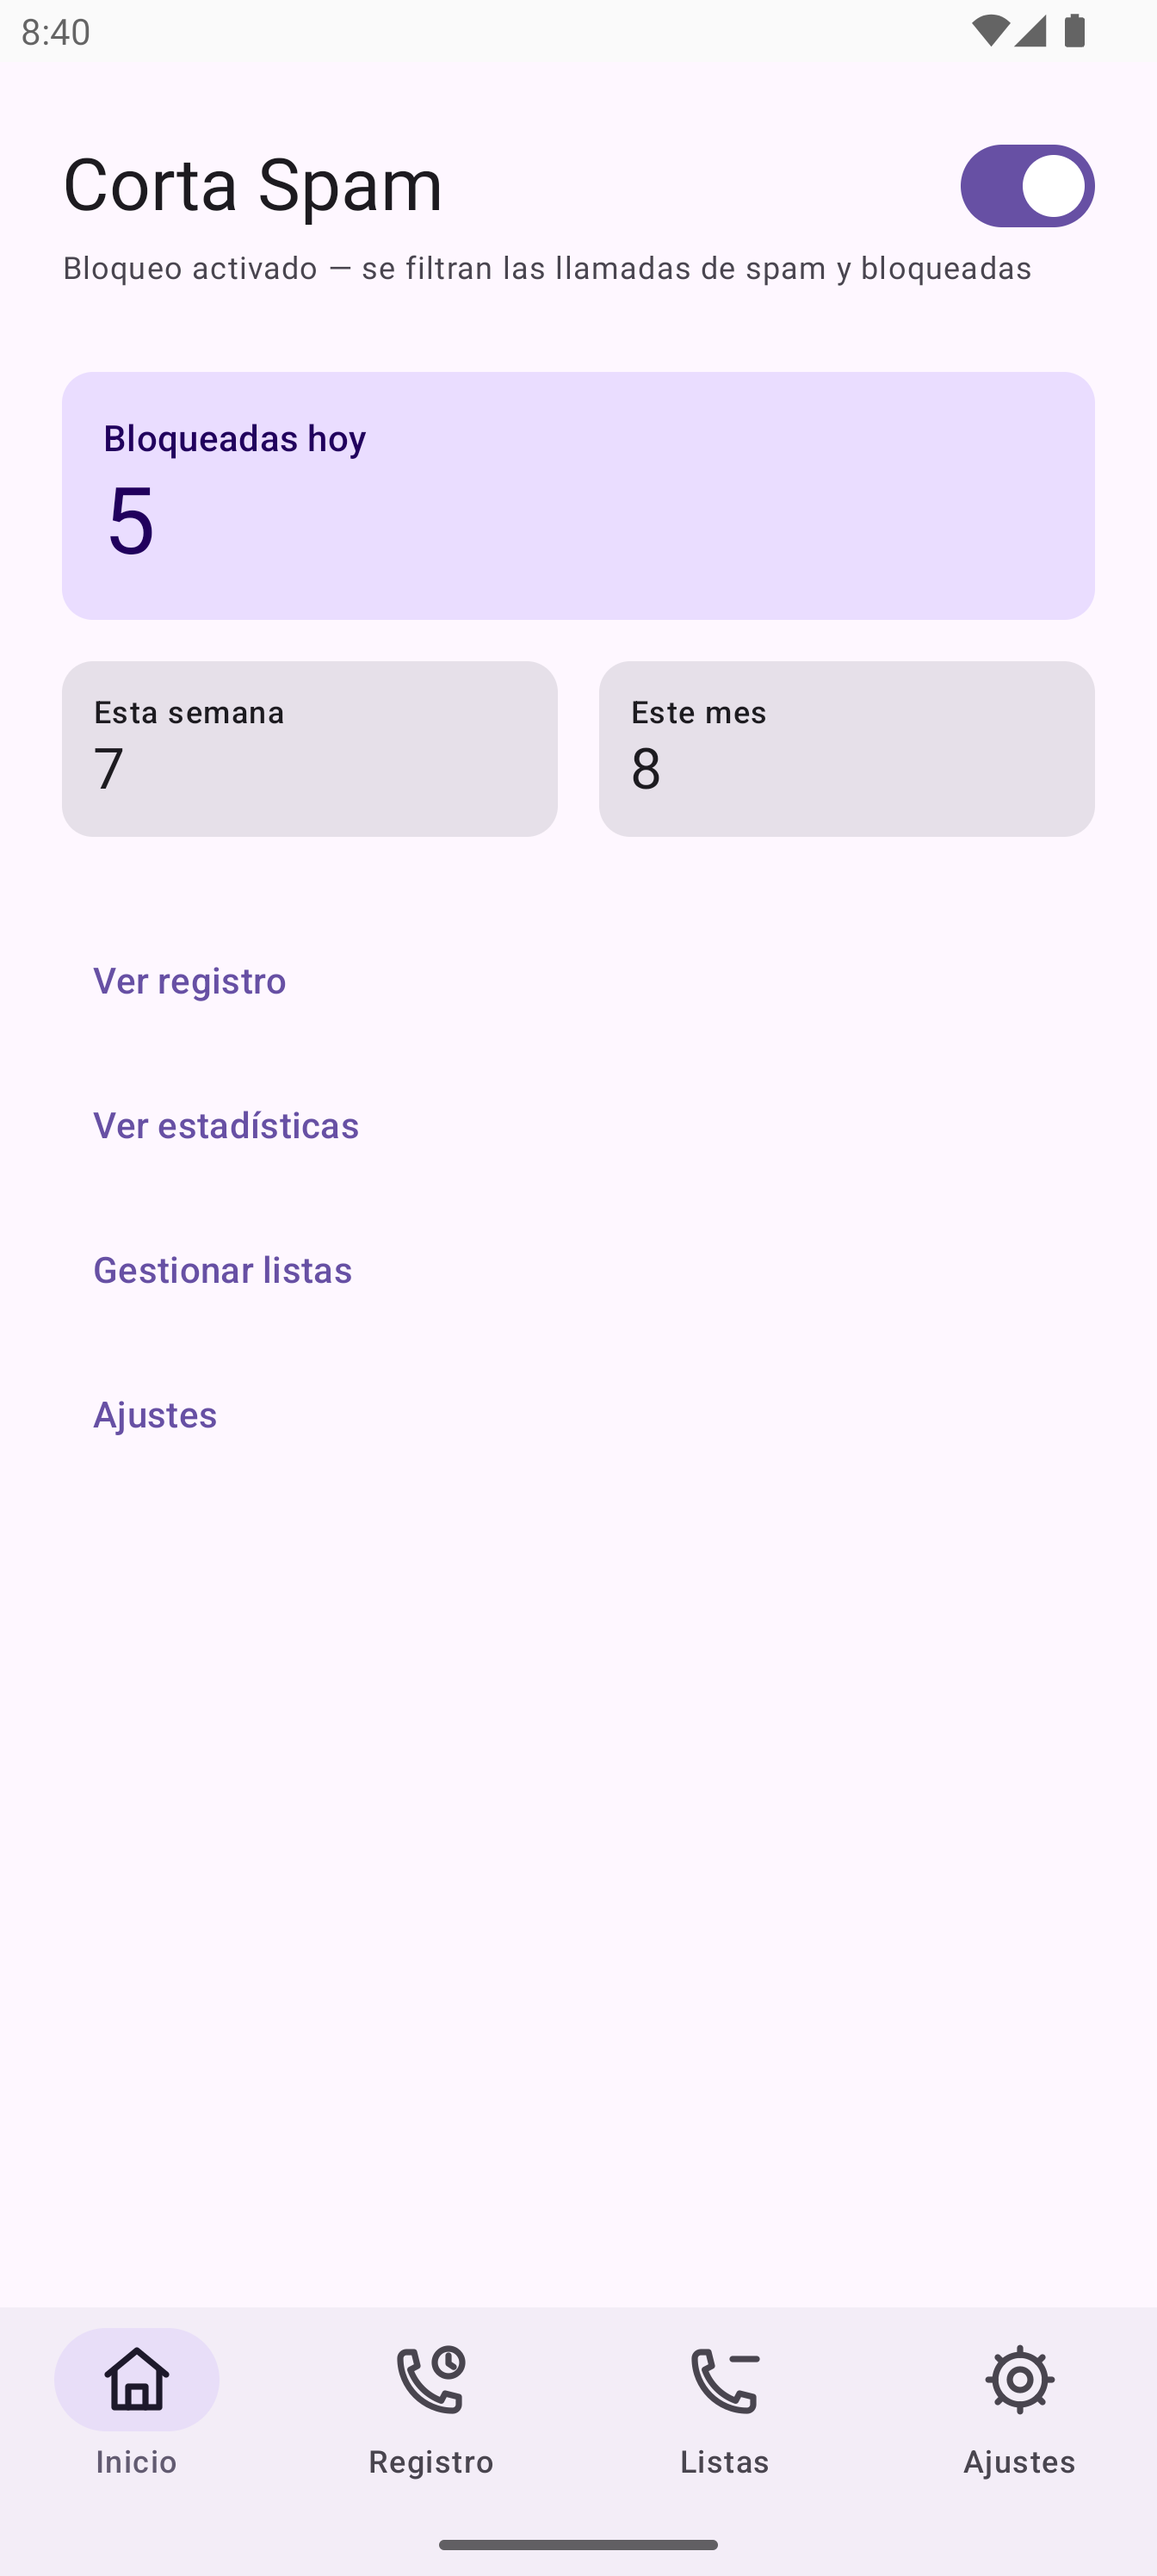
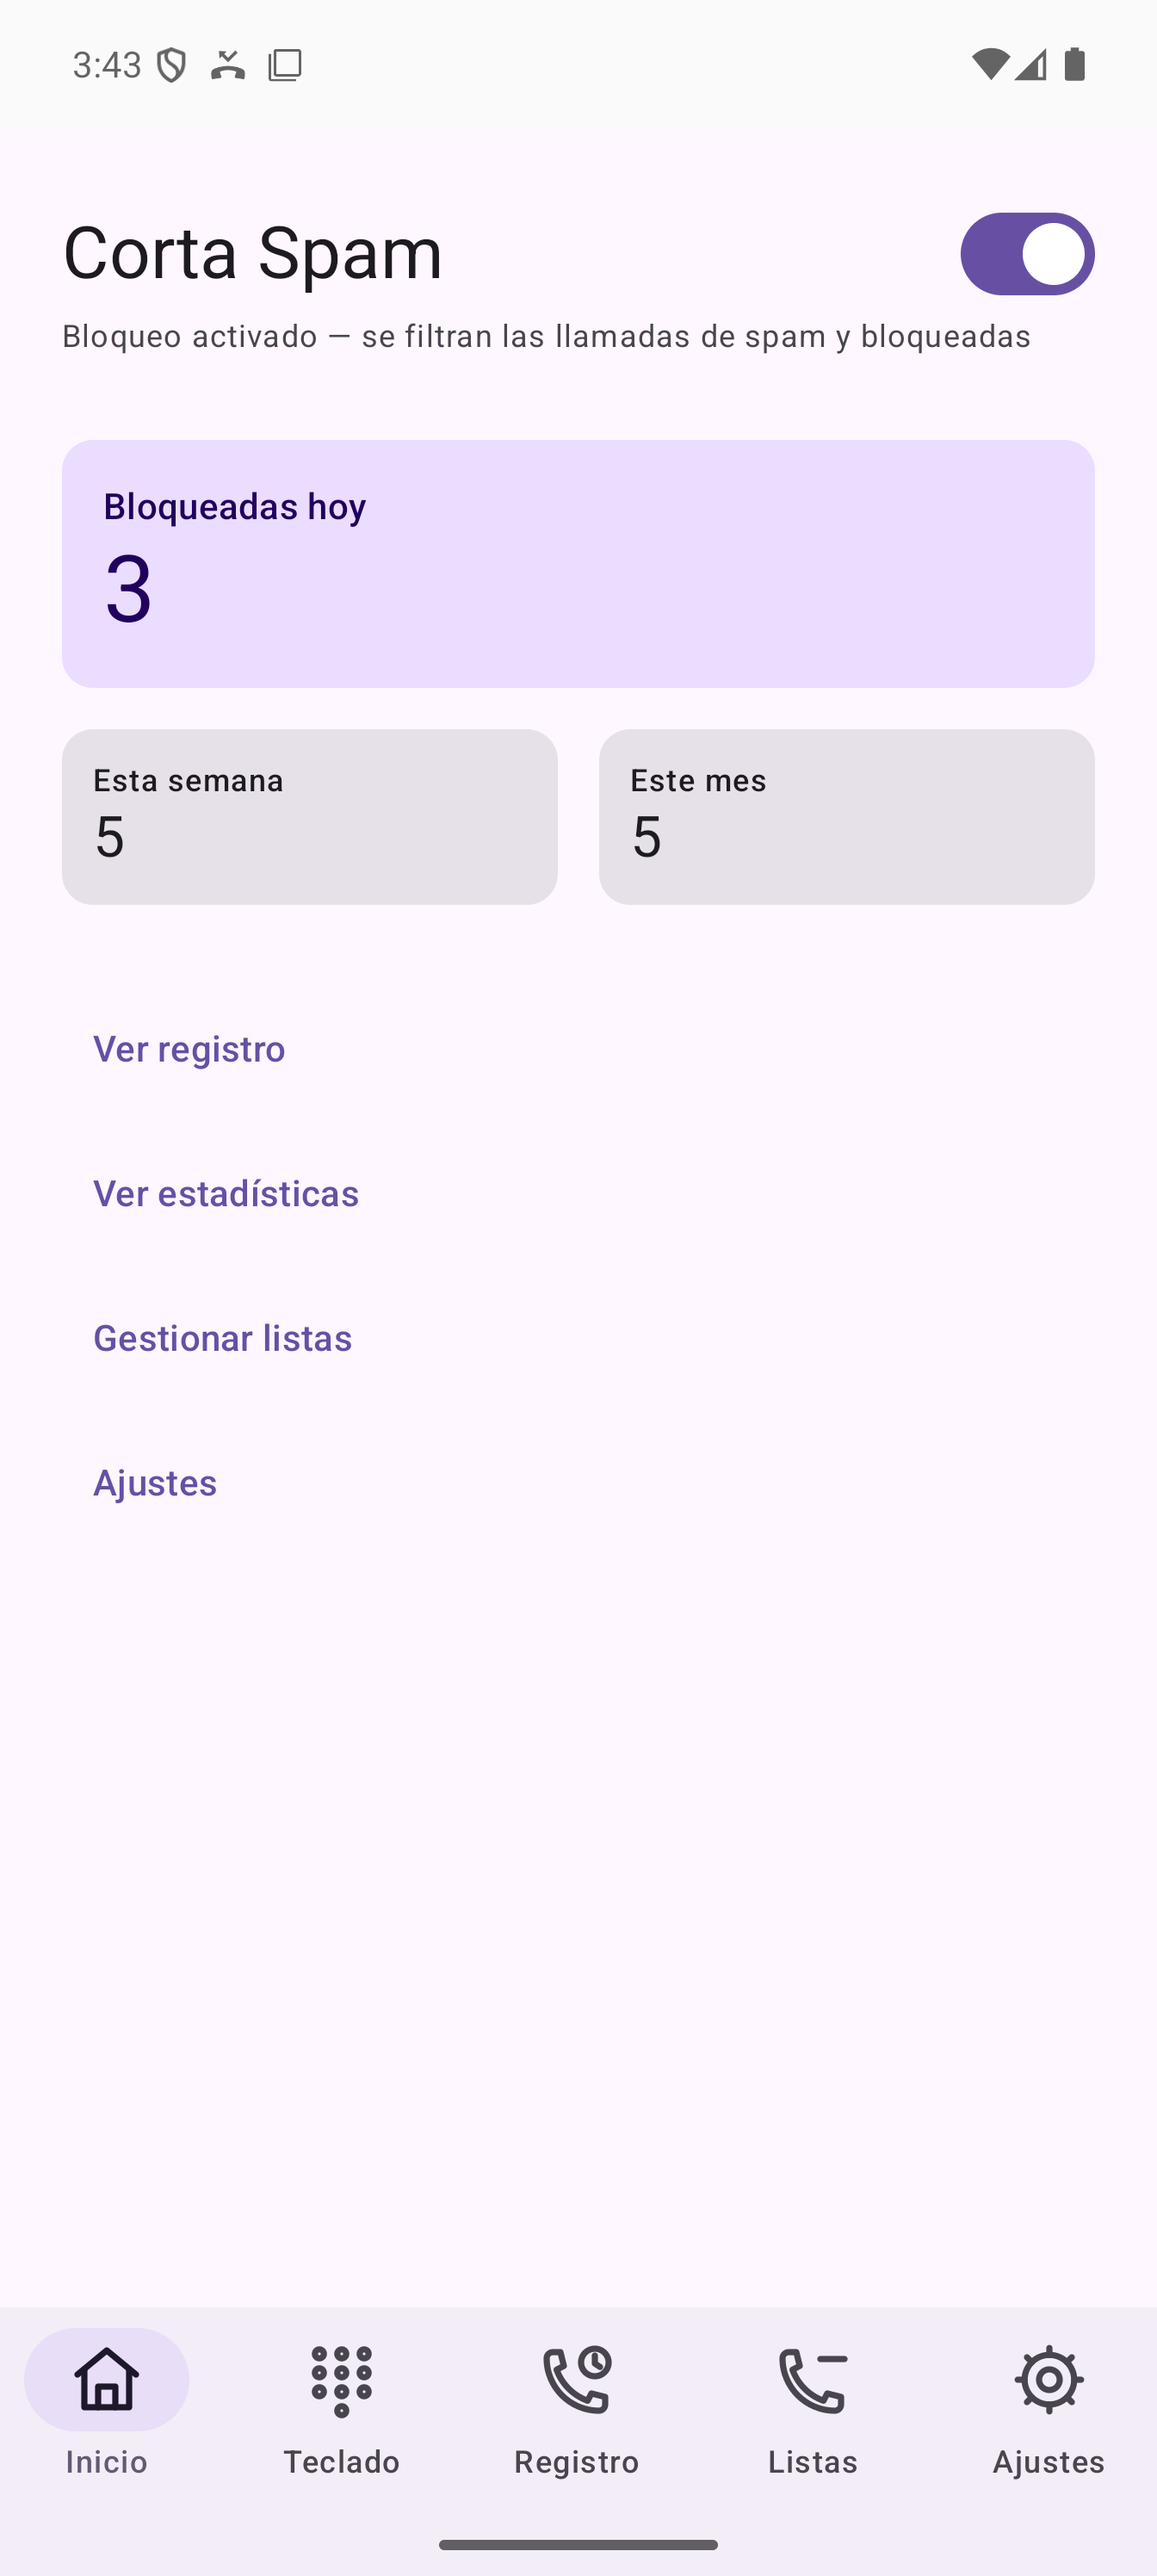
docs: retake the store screenshots and record the date fix
Five screenshots per language, captured on a Pixel API 36 emulator running
the release build of code 5 — not the debug build, and not the nine-day-old
set that predated the keypad, contact search, outgoing calls in the log
and the log filters.

The seeded data is store-safe on purpose: only +34 900 service-range
numbers and invented contacts, never a real subscriber, and the emulator's
leftover test contacts were deleted first.

Naming follows the screens rather than the old numbering, so 02 is now the
keypad with contact search and the patterns shot is gone; 04_calllog and
02_lists no longer exist under those names. Raw 1344x2992 captures live in
docs/store/, and docs/store/play/ holds the 9:16 padded copies Play wants,
padded by edge replication rather than a flat fill so the status and
navigation bars do not show a seam.

Also records the timestamp-localization bug these screenshots found, in
both READMEs and in the release notes' verification section, and corrects
that section to describe the 15:41 rebuild rather than the artifact it
replaced.

diff --git a/README_ES.md b/README_ES.md
@@ -8,7 +8,7 @@ Filtra llamadas entrantes antes de que suene el teléfono. Comprueba cada númer
 
 ## Estado
 
-M0–M13 completos, incluido el diseño adaptativo de M12 (ya están los dos paneles list-detail de tablet). i18n en 4 idiomas. Código abierto bajo licencia MIT. 524 pruebas automatizadas pasan. APK de Android compila. La app de iOS compila y arranca, pero el bloqueo de llamadas allí sigue pendiente de la extensión CallDirectory.
+M0–M13 completos, incluido el diseño adaptativo de M12 (ya están los dos paneles list-detail de tablet). i18n en 4 idiomas. Código abierto bajo licencia MIT. 528 pruebas automatizadas pasan. APK de Android compila. La app de iOS compila y arranca, pero el bloqueo de llamadas allí sigue pendiente de la extensión CallDirectory.
 
 - [`docs/SPEC.md`](docs/SPEC.md) — especificación del producto, matriz de capacidades, arquitectura
 - [`docs/MILESTONES.md`](docs/MILESTONES.md) — desglose de hitos con criterios de aceptación
@@ -147,6 +147,12 @@ Un curso completo de 25 módulos en HTML recorre cada capa de la app — Gradle,
 Abre [`course/corta_spam_course.html`](course/corta_spam_course.html) en cualquier navegador. Incluye modo oscuro, seguimiento de progreso, fragmentos de código del proyecto real, diagramas SVG y 127 preguntas de evaluación.
 
 ## Cambios recientes
+
+**2026-08-14 (cuarta):** las fechas hablaban inglés a todo el mundo, y las capturas de la tienda tenían nueve días.
+
+- **Las fechas del registro nunca se tradujeron.** Se armaban en `commonMain` a partir de `local.month.name` — una constante enum en inglés — recortada a tres letras, más día, año y reloj de 24 horas en ese orden fijo. Todo lo demás en pantalla sí estaba traducido, así que quien lee en es/pt/hi veía un registro completamente localizado con fechas que decían "Aug 14, 2026". Ahora se delega al formateador de cada plataforma (`DateTimeFormatter.ofLocalizedDateTime`, `NSDateFormatter`), porque doce nombres de mes por idioma más el orden de los campos y el formato de hora es conocimiento que ambas plataformas ya tienen. En español se lee `14 ago 2026, 3:18 p.m.`
+- **Lo encontró una captura de pantalla en español**, no una prueba — la segunda vez que ese paso descubre un fallo de localización ya publicado en este proyecto. La prueba de regresión verifica que se respete el idioma en vez de fijar el texto exacto, porque CLDR cambia las abreviaturas de los meses entre versiones; tres de sus cuatro casos fallan con el formateador anterior.
+- **Capturas de la tienda rehechas** en un emulador Pixel API 36 con la compilación **release**, cinco por idioma, con datos sembrados que solo usan números del rango de servicio `+34 900` y contactos inventados. El set ahora incluye el teclado con búsqueda de contactos y el registro con sus filtros, que no existían cuando se tomaron las anteriores. Capturas originales en `docs/store/`, copias 9:16 para subir en `docs/store/play/`.
 
 **2026-08-14 (tercera):** contestar una llamada mataba la app, y cuatro fallos resultaron ser uno.
 

diff --git a/README.md b/README.md
@@ -8,7 +8,7 @@ Screens incoming calls before your phone rings. Checks every number against your
 
 ## Status
 
-M0–M13 complete, including M12's adaptive layout (both tablet list-detail panes now in). 4-language i18n. Open source under MIT License. 524 automated tests pass. Android APK builds. iOS shell builds and runs, but call blocking there is still pending the CallDirectory extension.
+M0–M13 complete, including M12's adaptive layout (both tablet list-detail panes now in). 4-language i18n. Open source under MIT License. 528 automated tests pass. Android APK builds. iOS shell builds and runs, but call blocking there is still pending the CallDirectory extension.
 
 - [`docs/SPEC.md`](docs/SPEC.md) — product spec, platform capability matrix, architecture, tech stack
 - [`docs/MILESTONES.md`](docs/MILESTONES.md) — milestone breakdown with acceptance tests
@@ -145,6 +145,12 @@ A complete 25-module HTML course walks through every layer of the app — Gradle
 Open [`course/corta_spam_course.html`](course/corta_spam_course.html) in any browser. Dark mode, progress tracking, code snippets from real project files, SVG diagrams, and 127 quiz questions included.
 
 ## Recent Fixes
+
+**2026-08-14 (fourth):** dates spoke English to everyone, and the store screenshots were nine days stale.
+
+- **The call log's timestamps were never localized.** They were assembled in `commonMain` from `local.month.name` — an English enum constant — cut to three letters, then day, year and a 24-hour clock in that fixed order. Every other string on the screen was translated, so es/pt/hi readers got a fully localized call log whose dates read "Aug 14, 2026". Now delegated to each platform's own formatter (`DateTimeFormatter.ofLocalizedDateTime`, `NSDateFormatter`), because twelve month names per locale plus field order and clock convention is knowledge both platforms already have. Spanish reads `14 ago 2026, 3:18 p.m.`
+- **Found by screenshotting the app in Spanish**, not by a test — which is the second time that pass has caught a shipping localization bug in this project. The regression test asserts that the locale is honoured rather than pinning exact wording, since CLDR changes month abbreviations between releases; three of its four cases fail against the old formatter.
+- **Store screenshots retaken** on a Pixel API 36 emulator running the **release** build, five per language, with seeded data that uses only `+34 900` service-range numbers and invented contacts. The set now covers the keypad with contact search and the call log with its filters — neither of which existed when the old shots were taken. Raw captures in `docs/store/`, 9:16 padded copies for upload in `docs/store/play/`.
 
 **2026-08-14 (third):** answering a call killed the app, and four bugs turned out to be one.
 

diff --git a/docs/store/RELEASE_NOTES_1.3.0.md b/docs/store/RELEASE_NOTES_1.3.0.md
@@ -60,7 +60,8 @@ because this is not a patch on what 1.2.0 shipped.
 ## Verified before this cut
 
 `./scripts/verify.sh --release` green — both platforms, ktlint, Android Lint, SQLDelight migration
-verification, **524 tests**, plus the R8/minified build.
+verification, **528 tests**, plus the R8/minified build. Re-run after the timestamp-localization
+fix below; the uploaded artifact is the 15:41 rebuild, not the 15:18 one.
 
 **Artifact audited on the APK, never the source manifest:** `versionCode='5' versionName='1.3.0'`,
 targetSdk 36, `android.hardware.microphone` as `uses-feature-not-required`, `faketouch` the only
@@ -70,8 +71,8 @@ targetSdk 36, `android.hardware.microphone` as `uses-feature-not-required`, `fak
 checking this time: the new missed-call receiver names `READ_PHONE_STATE` in its
 `android:permission` attribute, and the string does appear in the merged manifest, but as an
 enforcement on senders rather than a `uses-permission`. The badging dump is the proof.
-`jarsigner -verify` → `jar verified`, `CN=Carlos Pinan`. R8 mapping present (43 MB, same
-timestamp as the artifacts — 2026-08-14 15:18).
+`jarsigner -verify` → `jar verified`, `CN=Carlos Pinan`. R8 mapping present, same timestamp as
+the artifacts (2026-08-14 15:41).
 
 **On a `Pixel_8_Pro_API_36` emulator, running the R8 release build, not a debug one:**
 
@@ -87,6 +88,12 @@ timestamp as the artifacts — 2026-08-14 15:18).
 - **Rule decisions still land**: with the planted database's `default_action=BLOCK`, the first test
   call was blocked and rejected (`BLOCKED|INCOMING` in the log); switched to `ALLOW`, the next one
   rang through and was answered (`ALLOWED|INCOMING`).
+
+**One bug was found after the first cut and fixed before upload.** Taking the Spanish store
+screenshots showed the call log's dates still in English — "Aug 14, 2026" — because they were
+assembled from an English enum constant in shared code. Every one of the app's non-English locales
+was affected. Fixed by delegating to the platform date formatters, re-verified, and the artifact
+rebuilt. The screenshots in `docs/store/` are from that rebuilt release build.
 
 **On the razr 50 ultra (API 36), on the debug build of the same commits:** ringing works — the
 oldest open risk in this project, and the first time it has been proven off an emulator. Contact
